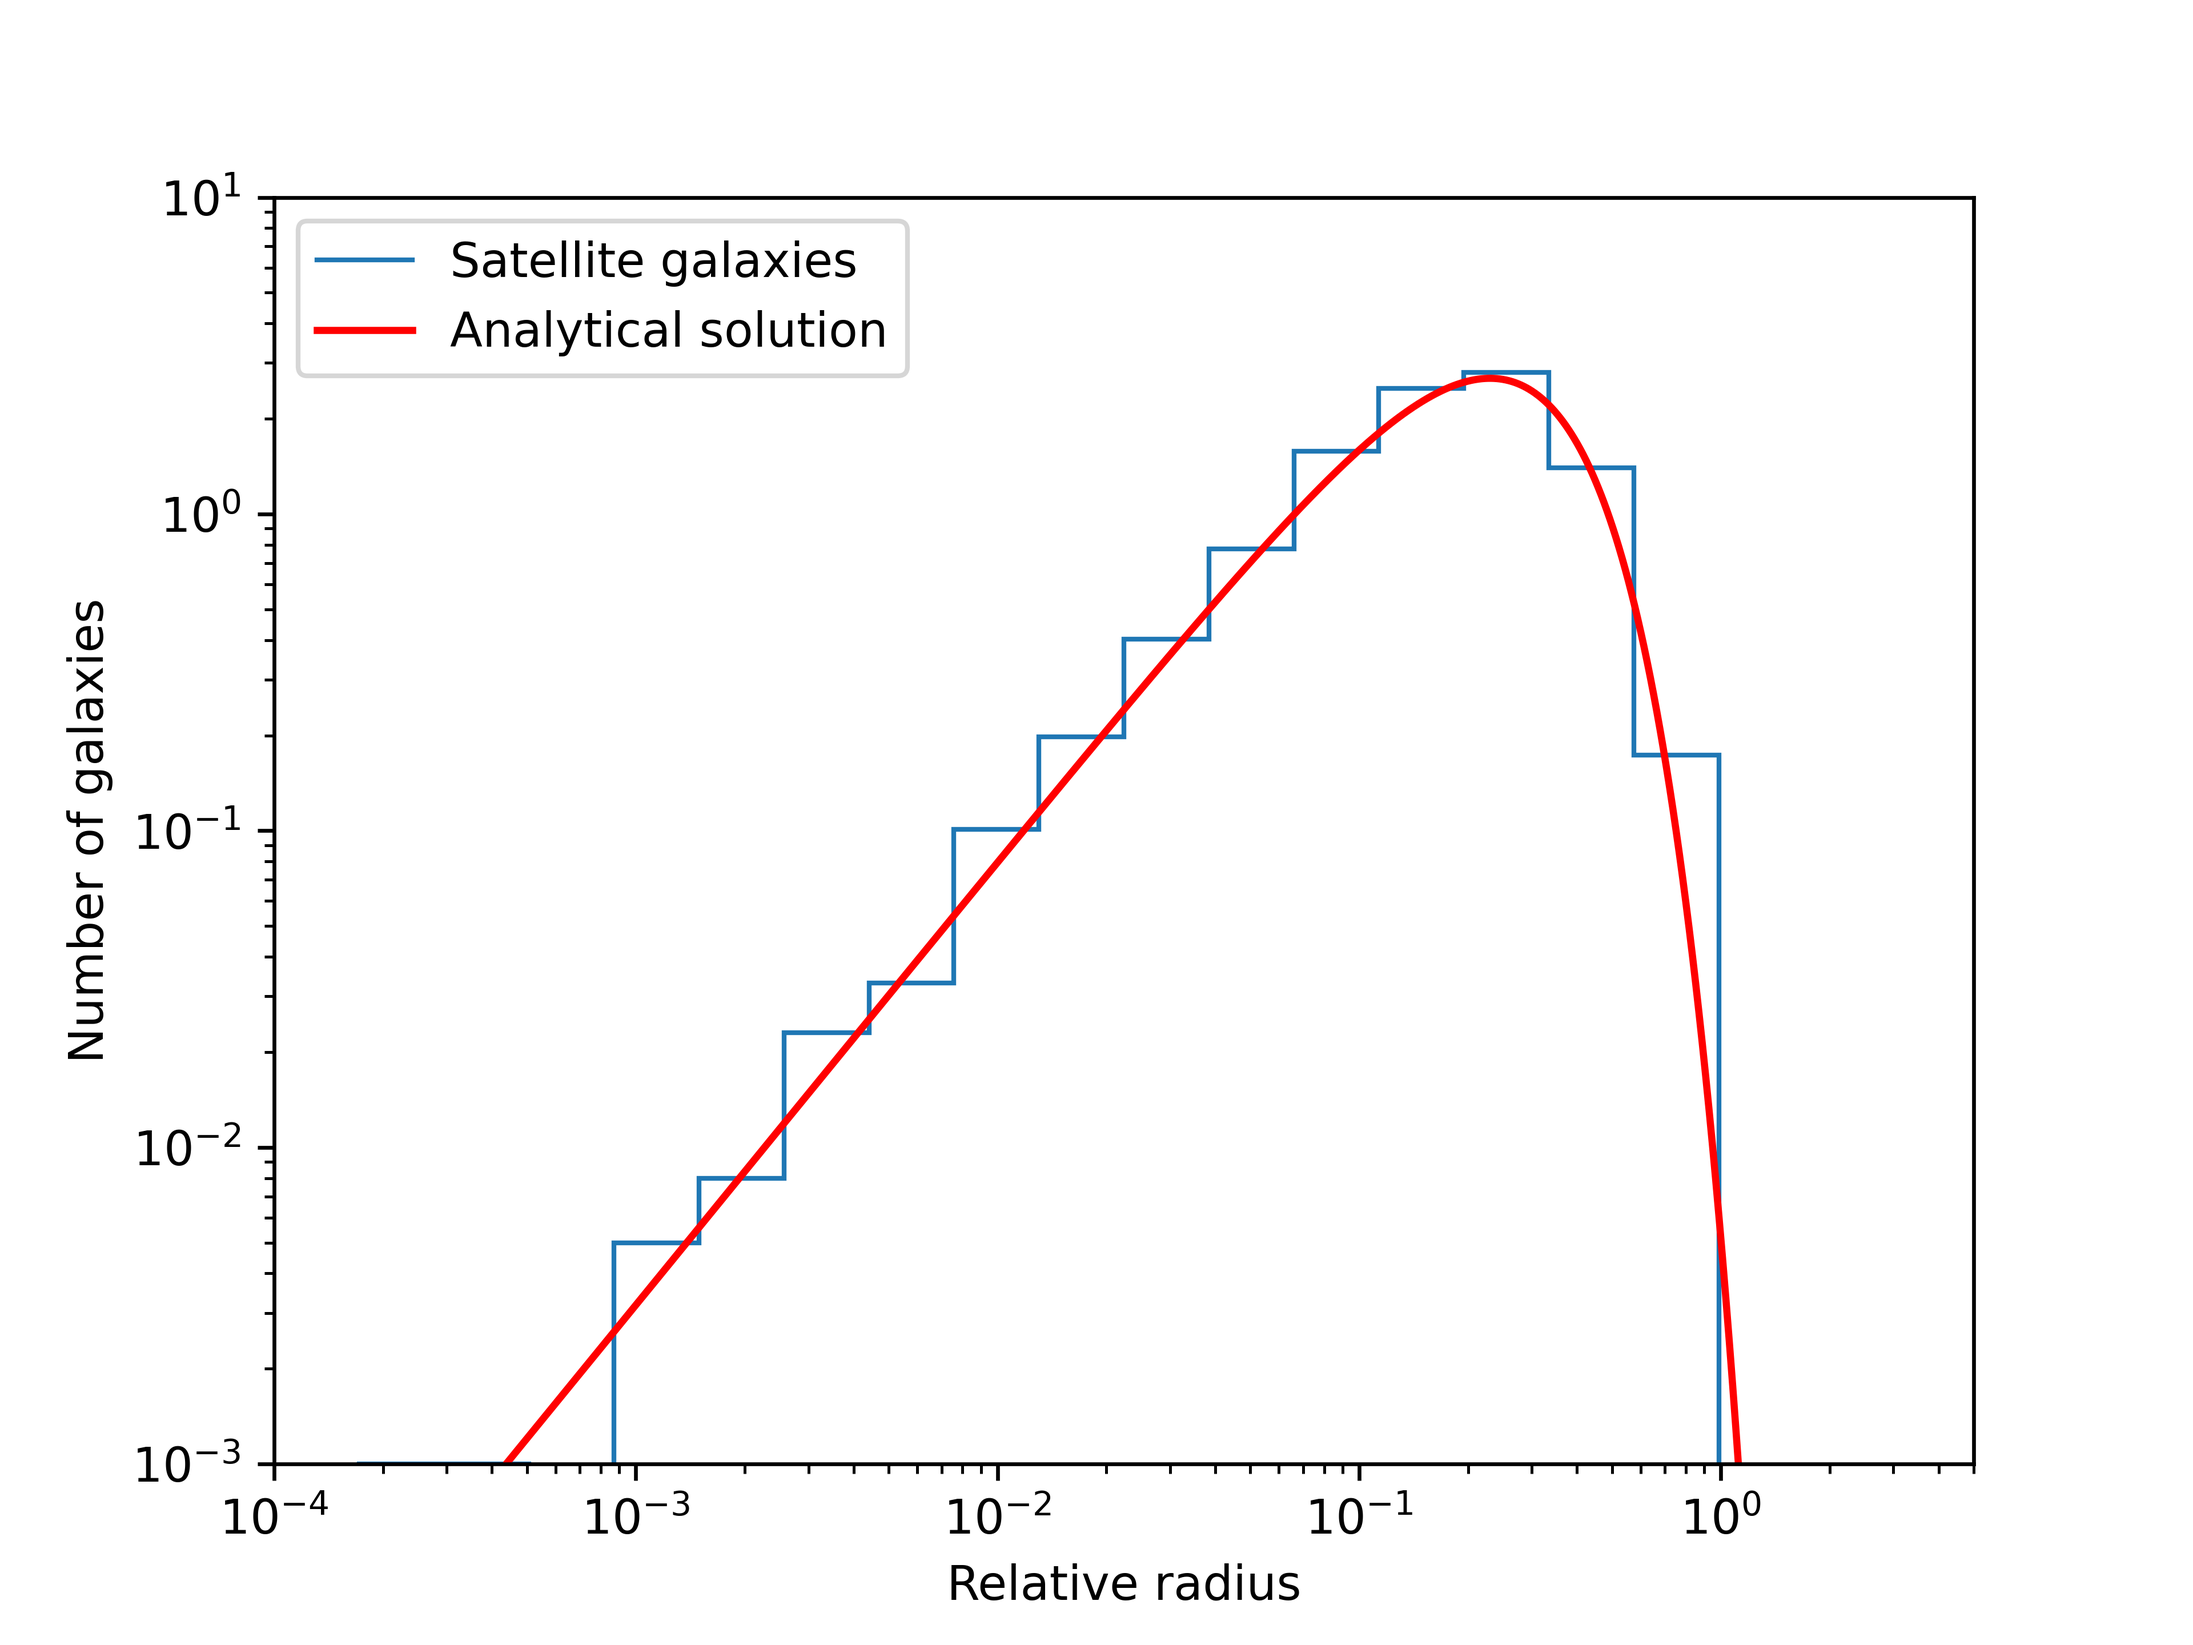
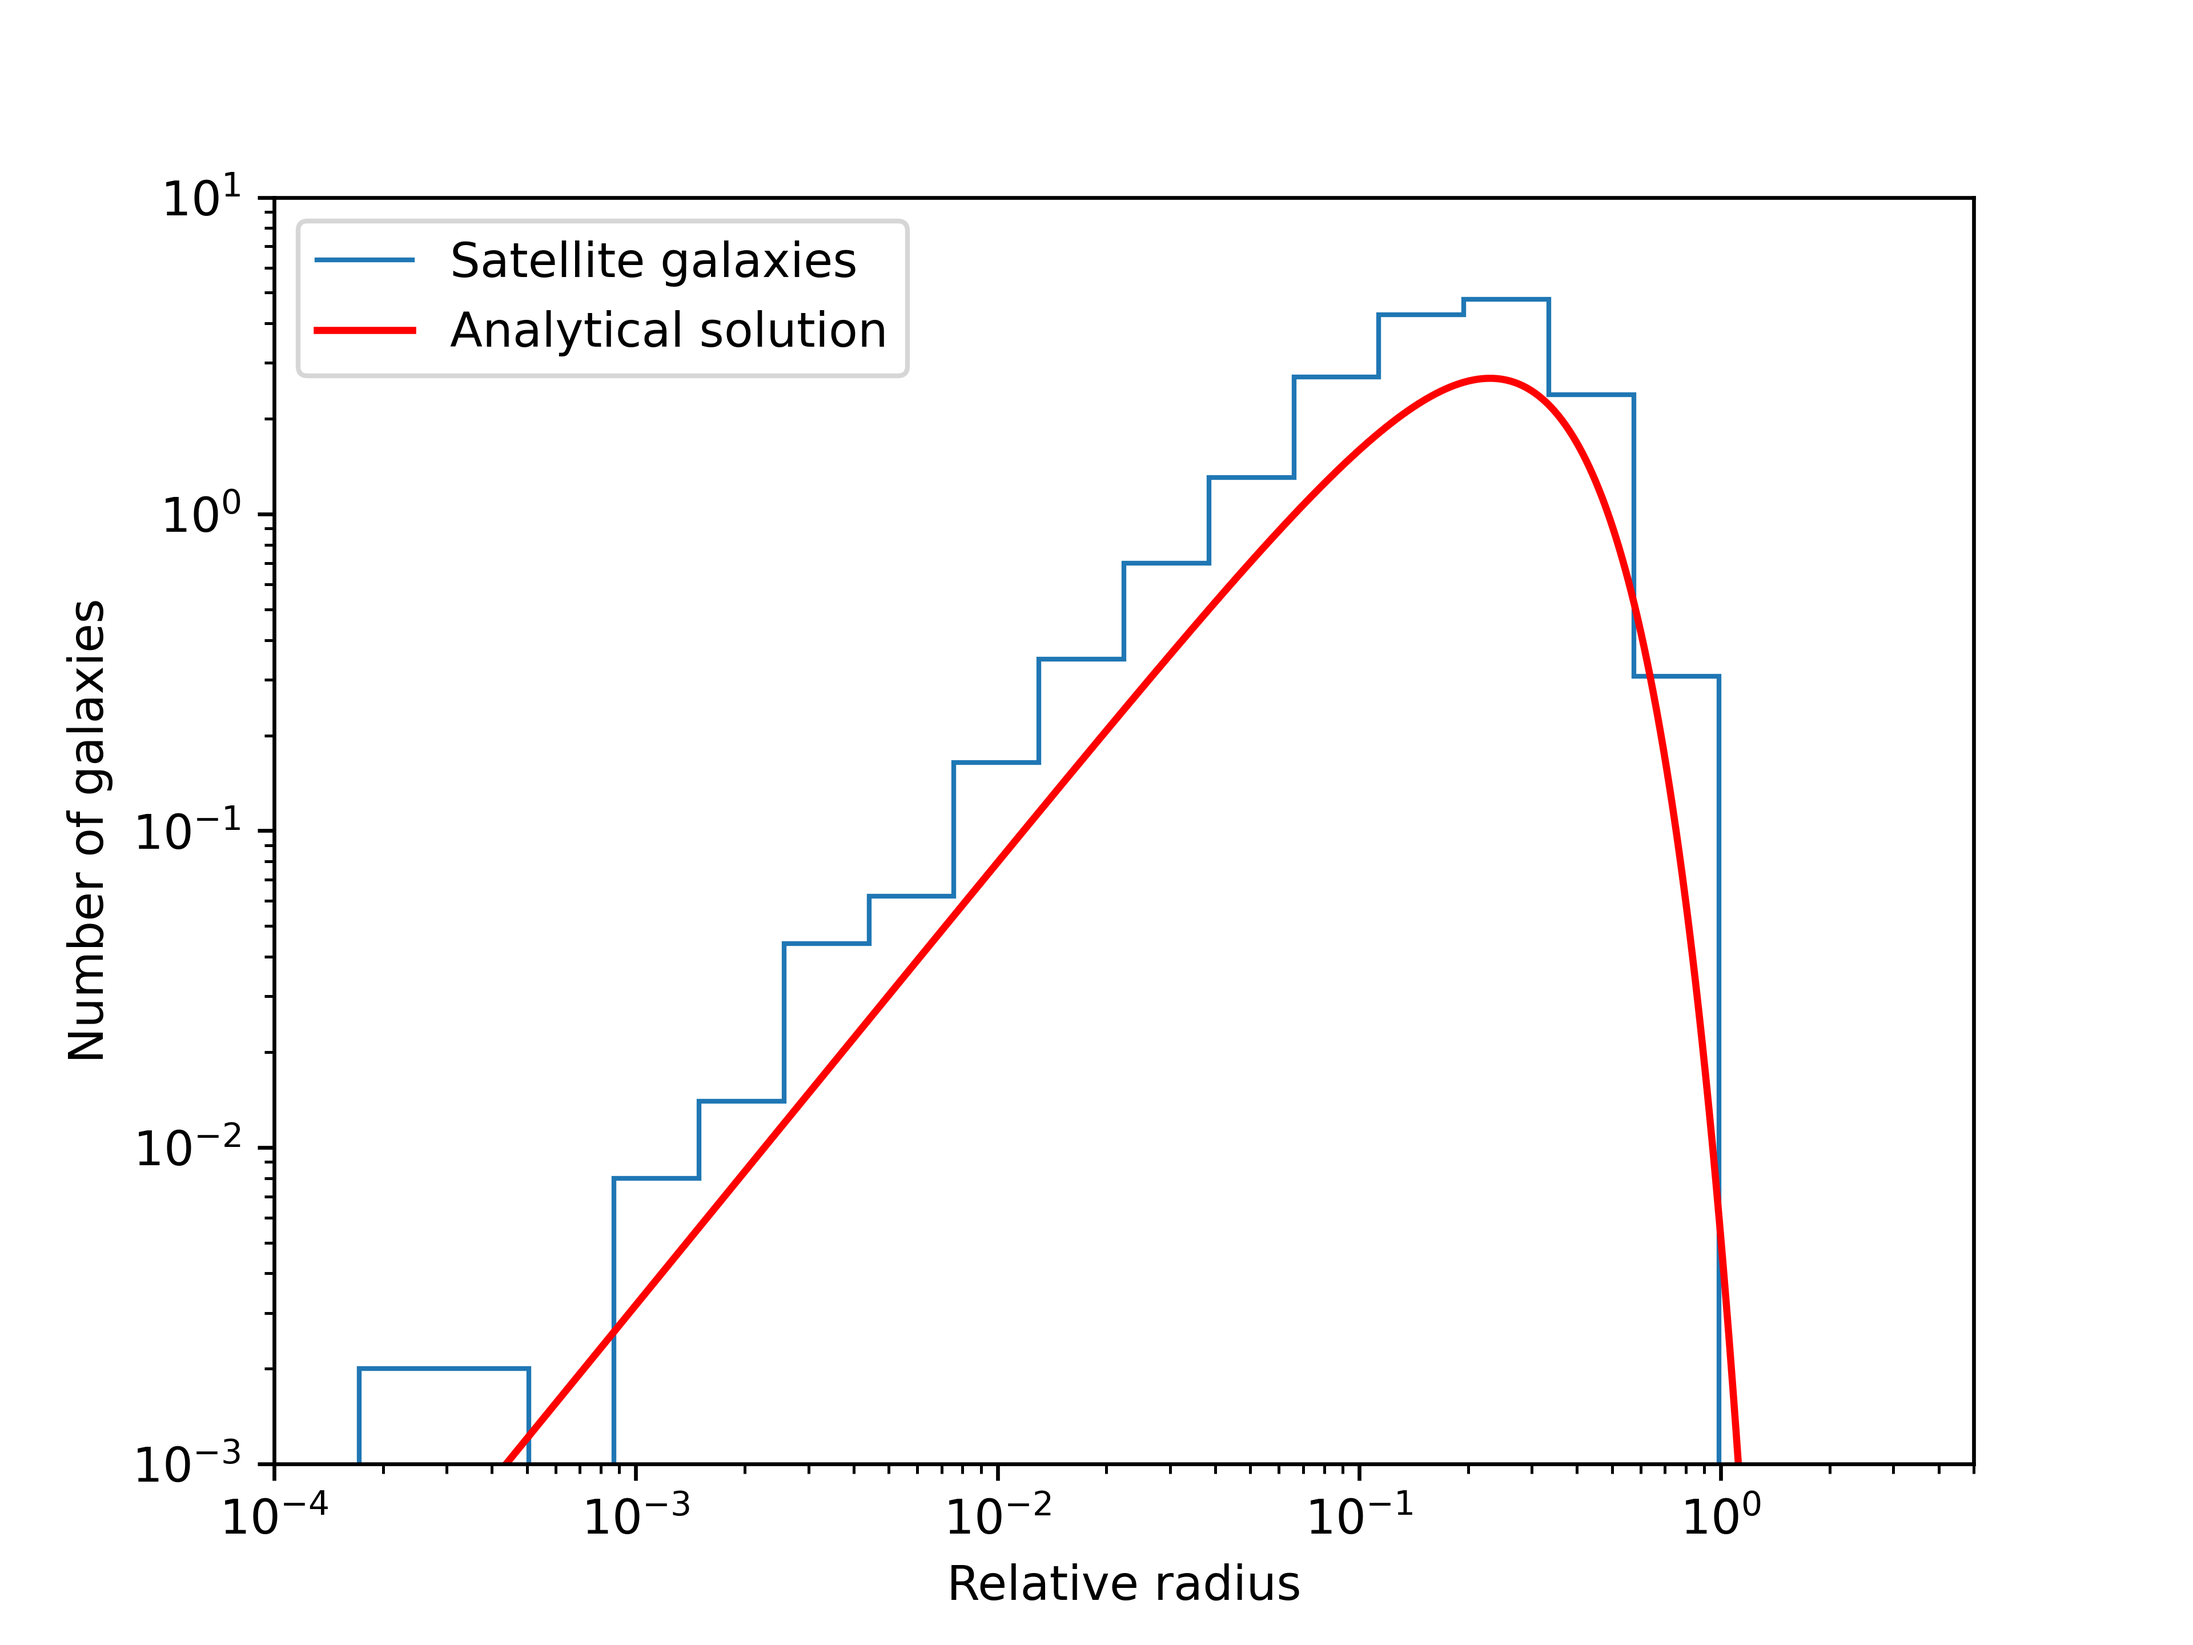
Finished coding for hand-in 2

diff --git a/A/Hand-ins/2/HII-regions.py b/A/Hand-ins/2/HII-regions.py
@@ -1,6 +1,7 @@
 import numpy as np
 import matplotlib.pyplot as plt
 import copy 
+import timeit
 
 def bisection(func, brac, *args, abs_tol = 1e-8, frac_tol = 1e-8, max_iter = 50):
     '''implements the bisection method of root finding.'''
@@ -22,7 +23,7 @@ def bisection(func, brac, *args, abs_tol = 1e-8, frac_tol = 1e-8, max_iter = 50)
             return a, i
     return a, i
 
-def secant(func, guesses, *args, abs_tol = 1e-8, frac_tol = 1e-8, max_iter = 50):
+def secant(func, guesses, *args, abs_tol = 1e-10, frac_tol = 1e-10, max_iter = 50):
     '''implements the secant method for root finding.'''
     i = 2
     # r will hold all guesses
@@ -38,7 +39,7 @@ def secant(func, guesses, *args, abs_tol = 1e-8, frac_tol = 1e-8, max_iter = 50)
     print('maximum secant interations reached')
     return r[i-1], i
 
-def false_position(func, brac, *args, abs_tol = 1e-8, frac_tol = 1e-8, max_iter = 50):
+def false_position(func, brac, *args, abs_tol = 1e-10, frac_tol = 1e-10, max_iter = 50):
     '''implements the false position method for root finding.'''
     i = 2
     r = np.zeros(max_iter)
@@ -72,12 +73,13 @@ def equilibrium1(T,Z,Tc,psi):
 # test and visualize first
 temps = np.linspace(1, 1e7, 1000)
 eqs = equilibrium1(temps, Z, Tc, psi)
-# plt.plot(temps, eqs)
-# plt.show()
+plt.plot(temps, eqs)
+plt.show()
 
 brac1 = [1, 1e7] # K 
 print(brac1)
 midpoint1 = 0.5e7 # mid point of the bracket interval
+print('------------2a--------------')
 
 root1, num_it1 = bisection(equilibrium1, brac1, Z, Tc, psi, abs_tol = 0.01, frac_tol = 1e-8, max_iter = 50)
 print('root and number of iterations')
@@ -92,24 +94,59 @@ print('using false position method:,', root3, num_it3)
 def equilibrium2(T,Z,Tc,psi, nH, A, xi):
     return (psi*Tc - (0.684 - 0.0416 * np.log(T/(1e4 * Z*Z)))*T - .54 * ( T/1e4 )**.37 * T)*k*nH*aB + A*xi + 8.9e-26 * (T/1e4)
 
+
+print('---------------2b----------------')
 # 2b
 A = 5e-10 # erg
 xi = 1e-15 # s**-1
 brac2 = [1, 1e15] # K
 
+# test and visualize first
+temps = np.linspace(1, 1e15, 1000)
+ne = 1e15
+eqs = equilibrium2(temps, Z, Tc, psi, ne, A, xi)
+plt.plot(temps, eqs)
+plt.show()
+
 for ne in [1e-4, 1, 1e4]:
-    print('for ne = ', ne)
-    root1, num_it1 = bisection(equilibrium2, brac2, Z, Tc, psi, ne, A, xi, abs_tol = 0.01, frac_tol = 1e-8, max_iter = 100)
+    print('\nfor ne = ', ne)
+    root1, num_it1 = bisection(equilibrium2, brac2, Z, Tc, psi, ne, A, xi, abs_tol = 1e-10, frac_tol = 1e-10, max_iter = 100)
     print('root and number of iterations')
     print('using bisection:', root1, num_it1)
+    print('function evaluated at root:', equilibrium2(root1, Z, Tc, psi, ne, A, xi))
 
-    root2, num_it2 = secant(equilibrium2, brac2, Z, Tc, psi, ne, A, xi, abs_tol = 0.01, frac_tol = 1e-8, max_iter = 100)
+    root2, num_it2 = secant(equilibrium2, brac2, Z, Tc, psi, ne, A, xi, abs_tol = 1e-10, frac_tol = 1e-10, max_iter = 100)
     print('using secant method:', root2, num_it2)
+    print('function evaluated at root:', equilibrium2(root2, Z, Tc, psi, ne, A, xi))
 
-    root3, num_it3 = false_position(equilibrium2, brac2, Z, Tc, psi, ne, A, xi, abs_tol = 0.01, frac_tol = 1e-8, max_iter = 100)
+    root3, num_it3 = false_position(equilibrium2, brac2, Z, Tc, psi, ne, A, xi, abs_tol = 1e-10, frac_tol = 1e-10, max_iter = 100000)
     print('using false position method:,', root3, num_it3)
+    print('function evaluated at root:', equilibrium2(root3, Z, Tc, psi, ne, A, xi))
+
+print('-------------------------------')
+def smallest_ne():
+    ne = 1e-4
+    root1, num_it1 = bisection(equilibrium2, brac2, Z, Tc, psi, ne, A, xi, abs_tol = 1e-10, frac_tol = 1e-10, max_iter = 100)
+
+def middle_ne():
+    ne = 1
+    root2, num_it2 = secant(equilibrium2, brac2, Z, Tc, psi, ne, A, xi, abs_tol = 1e-10, frac_tol = 1e-10, max_iter = 100)
+
+def big_ne():
+    ne = 1e4
+    root2, num_it2 = secant(equilibrium2, brac2, Z, Tc, psi, ne, A, xi, abs_tol = 1e-10, frac_tol = 1e-10, max_iter = 100)
+# TODO: time the different methods and select the quickest one. you can rule out false position for the last one.
+# from the data right now: use secant for second and third, use bisection for the first.
 
 
 
+
+small_ne_time = timeit.timeit(lambda : smallest_ne(), number = 1)
+mid_ne_time = timeit.timeit(lambda : middle_ne(), number = 1)
+big_ne_time = timeit.timeit(lambda : big_ne(), number = 1)
+
+print('Bisection for smallest n took:', small_ne_time)
+print('Secant for middle ne took:', mid_ne_time)
+print('Secant for biggest ne took:', big_ne_time)
 
 

diff --git a/A/Hand-ins/2/Satellites.py b/A/Hand-ins/2/Satellites.py
@@ -198,7 +198,9 @@ rej_result = []
 for i in range(N_generate*10):
     if Pu4[i] < P_x[i]:
         rej_result.append(Pu3[i])
-rej_result = np.array(rej_result)[:10000] # take the first 10000 elements
+        if len(rej_result) == 10000:
+            break
+rej_result = np.array(rej_result) # take the first 10000 elements
 
 #21 edges of 20 bins in log-space
 edges = 10**np.linspace(np.log10(xmin), np.log10(xmax), 21)
